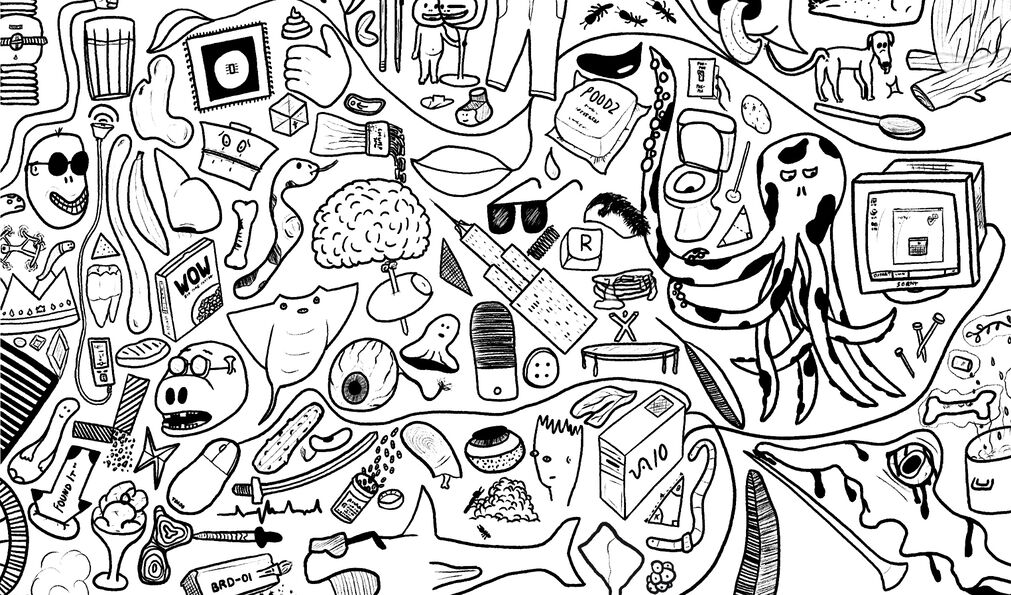
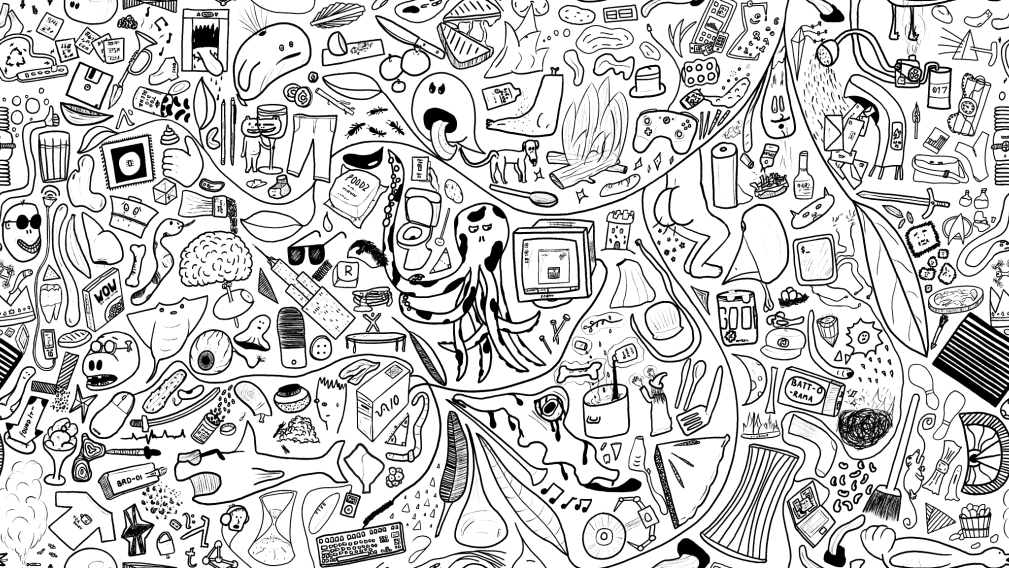
finally doodle that mangle

diff --git a/_sass/bignav.scss b/_sass/bignav.scss
@@ -1,11 +1,38 @@
 section.logo-dumpster{
   padding: 30px;
   width: 100%;
-  background: -webkit-image-set(
-        url('/assets/img/doodlemangle.jpg') 1x,
-        url('/assets/img/doodlemangle@2x.jpg') 2x);
-  background-position: center;
-  background-size: cover;
+
+  .background-animated{
+    width: 100%;
+    height: 100%;
+    position: absolute;
+    top: 0;
+    left: 0;
+    margin: 0;
+    padding: 0;
+    overflow: hidden;
+
+    &::after{
+      content: "";
+      display: block;
+      background: url('/assets/img/doodlemangle@2x.jpg') repeat;
+      background-size: 1009px 568px;
+      width: 4036px;
+      height: 2272px;
+      animation: slide 10s linear infinite;
+      margin: 0;
+      padding: 0;
+    }
+  }
+
+@keyframes slide{
+  0%{
+    transform: translate3d(0, 0, 0);
+  }
+  100%{
+    transform: translate3d(-25%, -50%, 0);
+  }
+}
 
   img{
     display: block;

diff --git a/_includes/bignav.html b/_includes/bignav.html
@@ -1,4 +1,5 @@
       <section class="logo-dumpster">
+        <div class="background-animated"></div>
         <img src="{{ site.url }}/assets/img/logobig.png" alt="fart depot dot biz logo" />
       </section>
 
